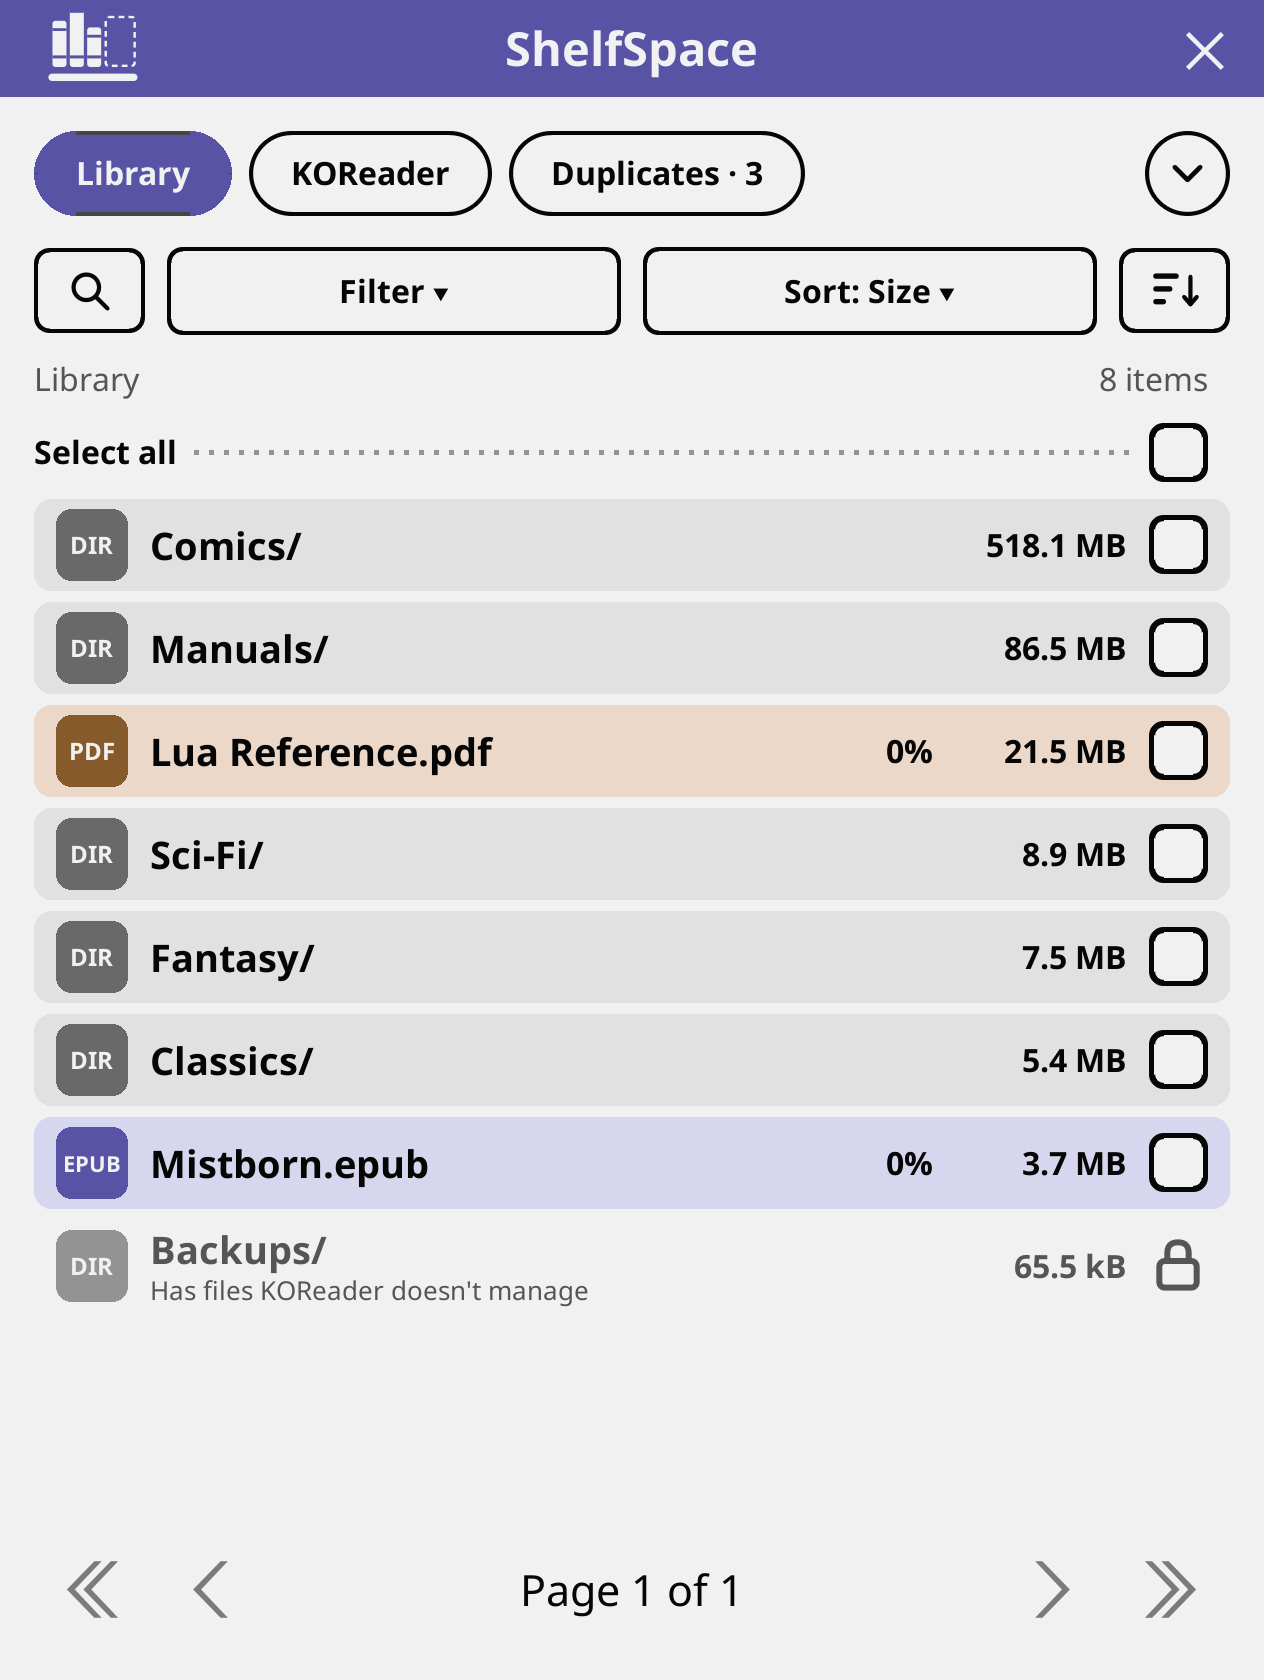
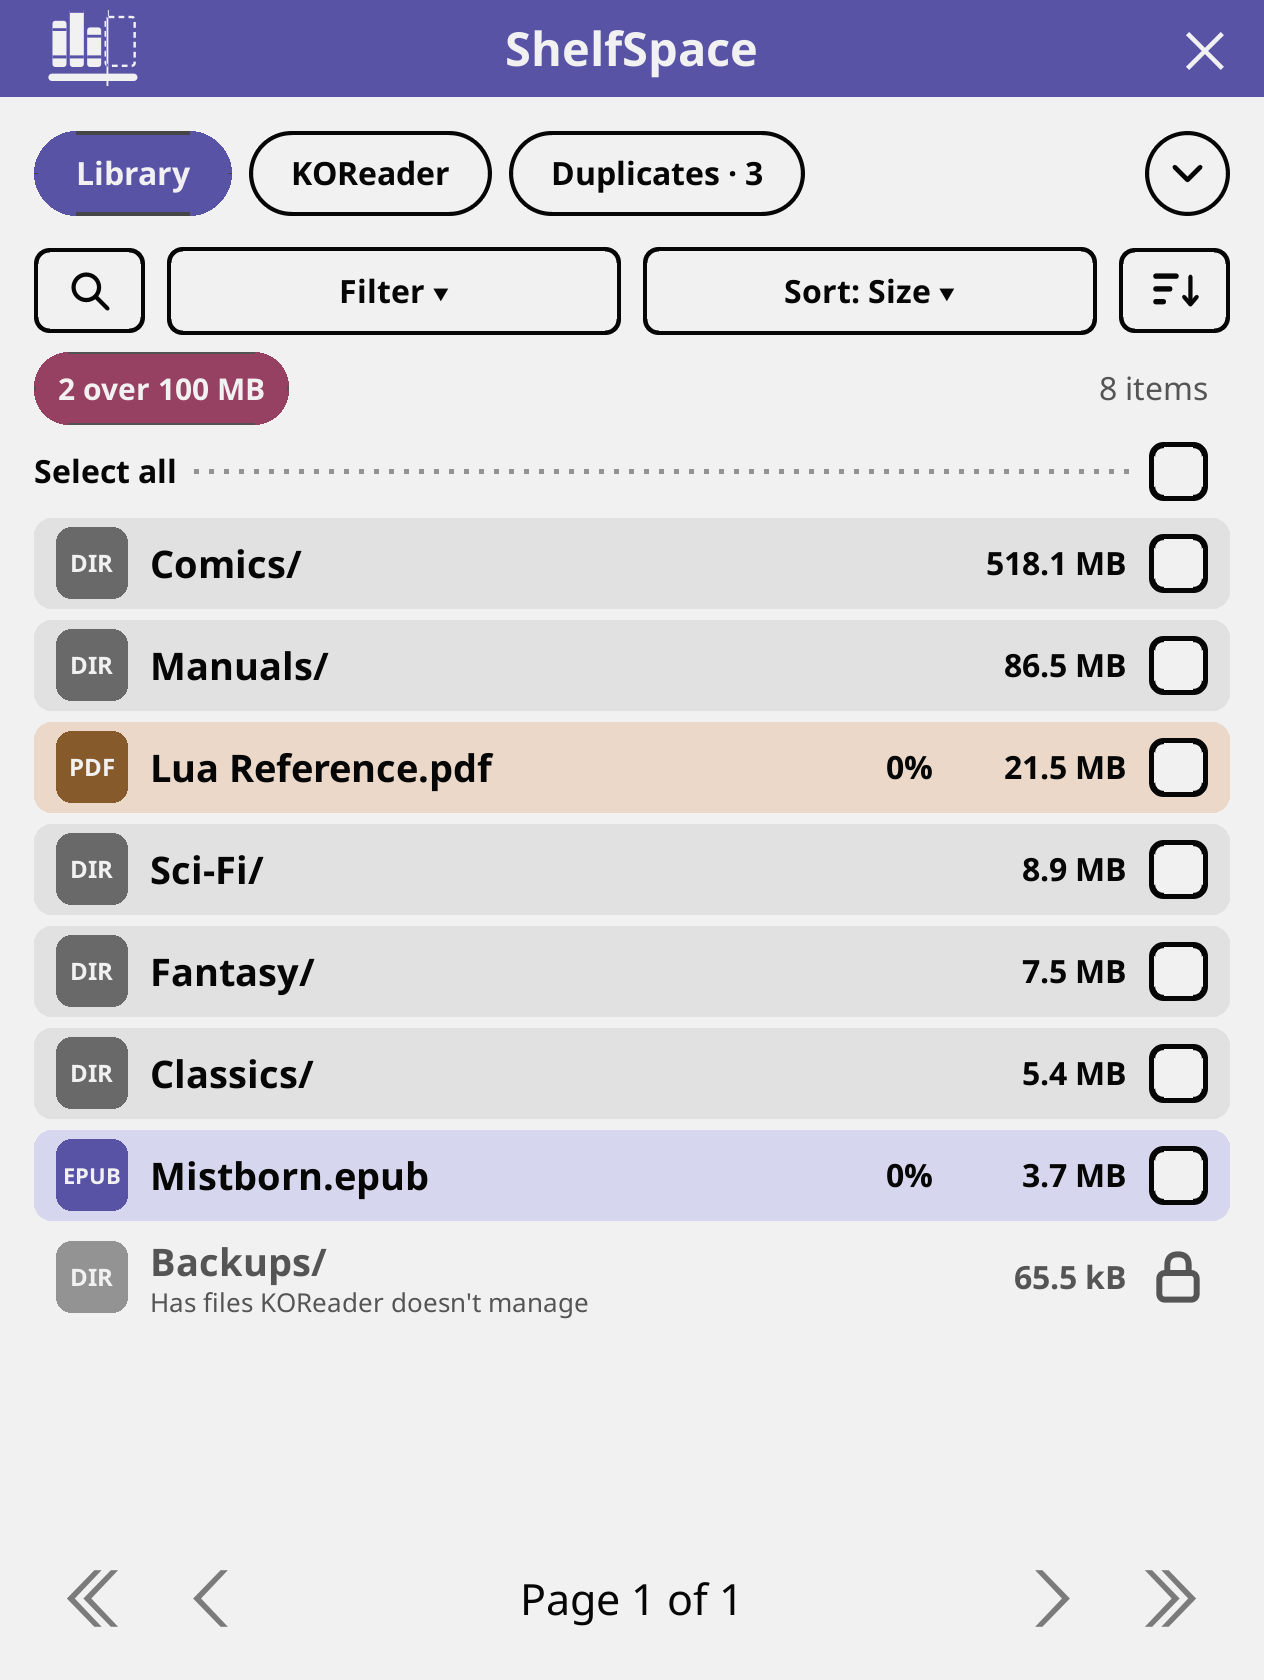
feat: Finished and large-file badges at the top of the Library (#105)
* feat: Finished and large-file badges at the top of the Library

* chore: retake the screenshots on top of main

diff --git a/README.md b/README.md
@@ -53,9 +53,11 @@ At the top, the chart and its legend: books, KOReader's data, other files and fr
 
 Under it, your files, largest first. Each row has a tile for its type, a colour for its kind, how far through a book you are, its size, and a checkbox.
 
+At the top of the library, two badges point at what frees the most space: **Finished · 2.1 GB** (the books you have finished, and how much they take) and **3 over 100 MB** (the files of 100 MB or more). Tap one for that list from the whole library, biggest first, ready to select and delete. A badge only appears when it has something in it.
+
 - **Open things.** Tap a folder to go in; the first row in a folder is `../`, to go back up. Tap a file, or press and hold any row, for its card: type, size, where it is, when it changed, when you last opened it and your progress, with **Open** and **Book info**. For the book you have open there is **Close book**, so you can delete it.
 - **Search** (the magnifier) looks by name through the folder you are in and everything under it. Once you have searched, the button shows your search and tapping it clears it.
-- **Filter** by file type, or by **Show**: every book in the library, the books you have finished, or the ones never opened, wherever they are. What is narrowing the list appears as chips with a ✕, each undoing just that. When nothing matches, you are told why and given a button that undoes it.
+- **Filter** by file type, or by **Show**: every book in the library, the books you have finished, the ones never opened, or the large files (over 100 MB), wherever they are. What is narrowing the list appears as chips with a ✕, each undoing just that. When nothing matches, you are told why and given a button that undoes it.
 - **Sort** by size, name, date or last opened; the arrow beside it flips the direction.
 
 #### Deleting
@@ -157,9 +159,9 @@ Anything else is untested. If you try it on another device, please [tell us how 
 | --- | --- | --- |
 | <img src="assets/formats.png" width="260"> | <img src="assets/menu.png" width="260"> | <img src="assets/locked-rows.png" width="260"> |
 
-| Why it is locked | Chart hidden | |
+| Why it is locked | Chart hidden | Large files |
 | --- | --- | --- |
-| <img src="assets/locked-card.png" width="260"> | <img src="assets/hidden.png" width="260"> | |
+| <img src="assets/locked-card.png" width="260"> | <img src="assets/hidden.png" width="260"> | <img src="assets/large.png" width="260"> |
 
 | Sets of copies | Compare and choose | Confirm |
 | --- | --- | --- |
